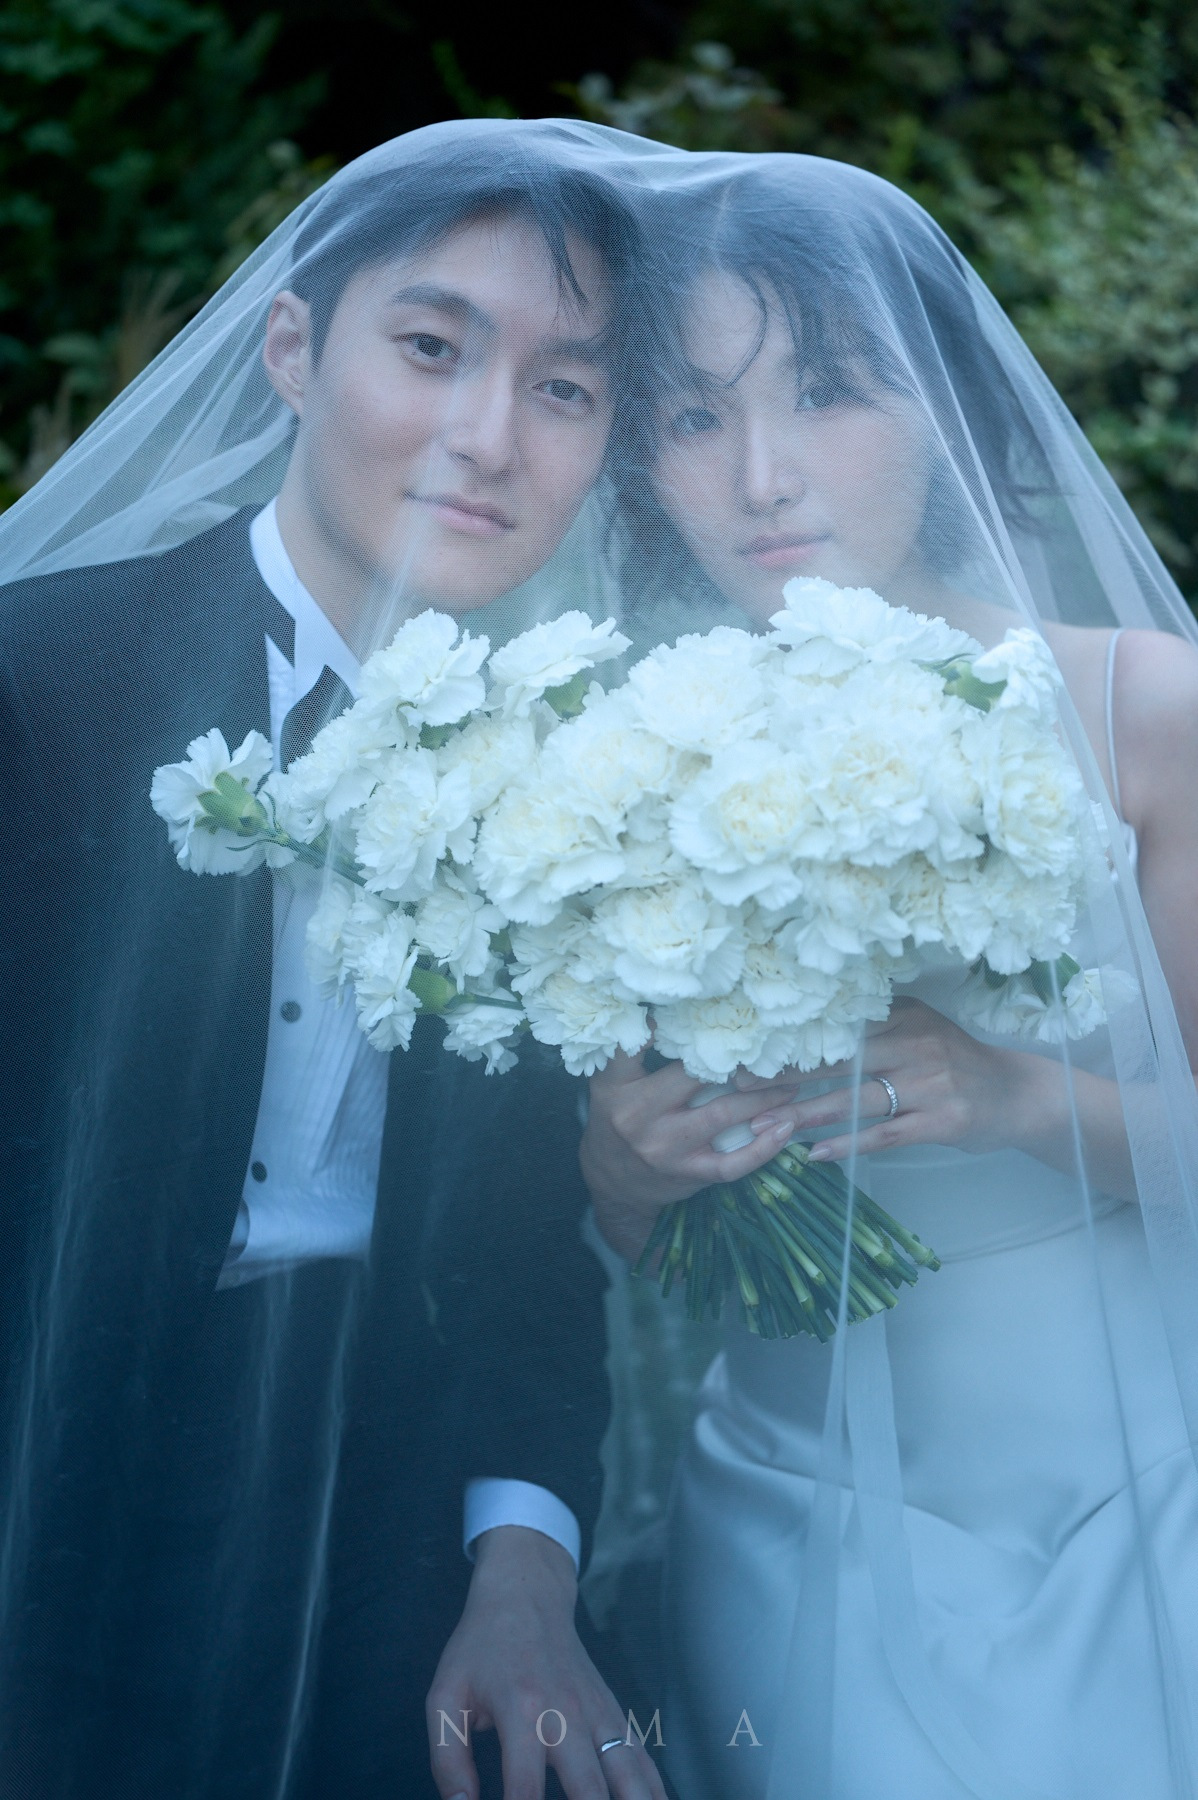
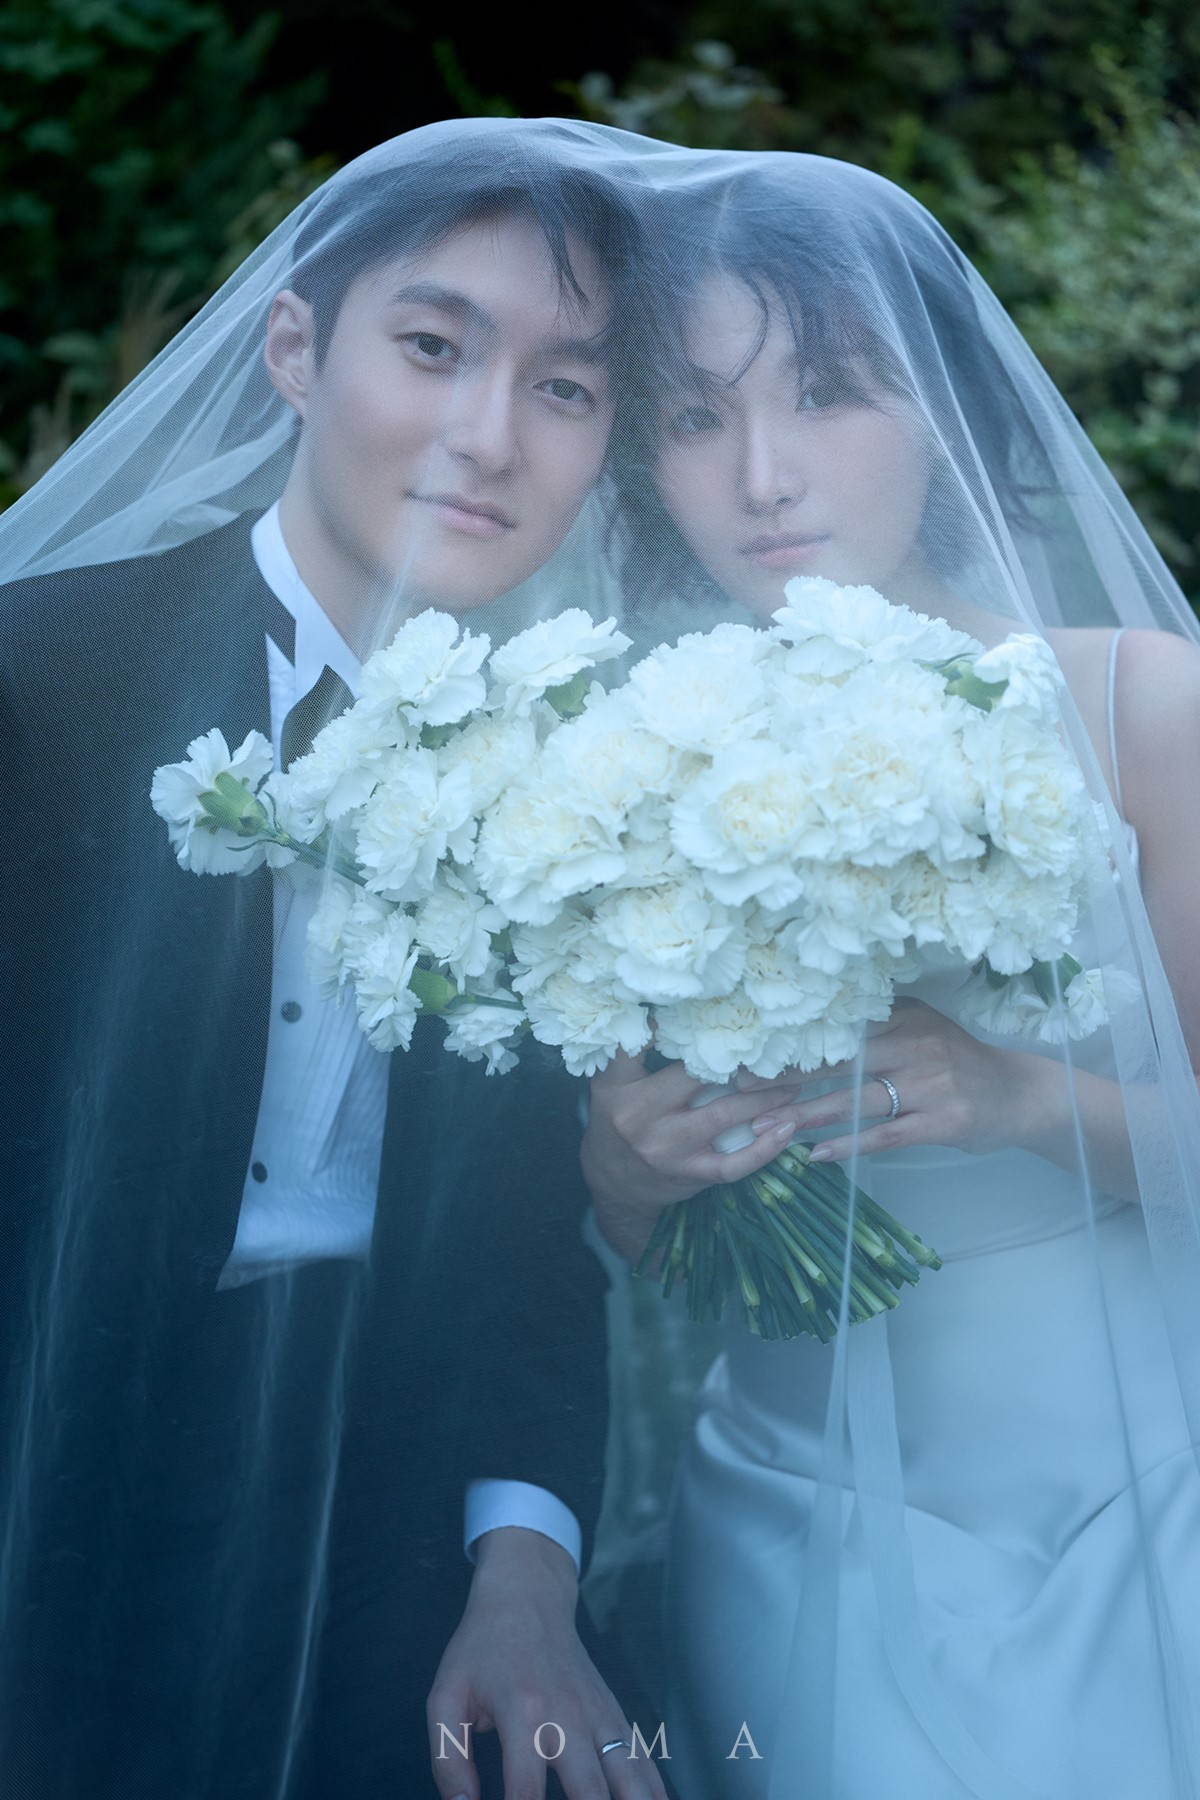
Replace photos 9, 20, 21 and bump cache versions
- New originals and square crops for g9, g20, g21
- Gallery ?v=3 -> ?v=4 and CSS/JS version bump so phones fetch the new photos

diff --git a/config.js b/config.js
@@ -95,36 +95,36 @@ var CONFIG = {
      사진을 빼려면 그 줄을 지우고, 더하려면 두 폴더에 넣은 뒤 같은 형식으로 한 줄 추가하세요.
      사진을 바꿨는데 휴대폰에 예전 사진이 보이면 ?v= 뒤 숫자를 올려 주세요. */
   gallery: [
-    { thumb: 'gallery/sq/g1.jpg?v=3', full: 'gallery/g1.jpg?v=3' },
-    { thumb: 'gallery/sq/g2.jpg?v=3', full: 'gallery/g2.jpg?v=3' },
-    { thumb: 'gallery/sq/g3.jpg?v=3', full: 'gallery/g3.jpg?v=3' },
-    { thumb: 'gallery/sq/g4.jpg?v=3', full: 'gallery/g4.jpg?v=3' },
-    { thumb: 'gallery/sq/g5.jpg?v=3', full: 'gallery/g5.jpg?v=3' },
-    { thumb: 'gallery/sq/g6.jpg?v=3', full: 'gallery/g6.jpg?v=3' },
-    { thumb: 'gallery/sq/g7.jpg?v=3', full: 'gallery/g7.jpg?v=3' },
-    { thumb: 'gallery/sq/g8.jpg?v=3', full: 'gallery/g8.jpg?v=3' },
-    { thumb: 'gallery/sq/g9.jpg?v=3', full: 'gallery/g9.jpg?v=3' },
-    { thumb: 'gallery/sq/g10.jpg?v=3', full: 'gallery/g10.jpg?v=3' },
-    { thumb: 'gallery/sq/g11.jpg?v=3', full: 'gallery/g11.jpg?v=3' },
-    { thumb: 'gallery/sq/g12.jpg?v=3', full: 'gallery/g12.jpg?v=3' },
-    { thumb: 'gallery/sq/g13.jpg?v=3', full: 'gallery/g13.jpg?v=3' },
-    { thumb: 'gallery/sq/g14.jpg?v=3', full: 'gallery/g14.jpg?v=3' },
-    { thumb: 'gallery/sq/g15.jpg?v=3', full: 'gallery/g15.jpg?v=3' },
-    { thumb: 'gallery/sq/g16.jpg?v=3', full: 'gallery/g16.jpg?v=3' },
-    { thumb: 'gallery/sq/g17.jpg?v=3', full: 'gallery/g17.jpg?v=3' },
-    { thumb: 'gallery/sq/g18.jpg?v=3', full: 'gallery/g18.jpg?v=3' },
-    { thumb: 'gallery/sq/g19.jpg?v=3', full: 'gallery/g19.jpg?v=3' },
-    { thumb: 'gallery/sq/g20.jpg?v=3', full: 'gallery/g20.jpg?v=3' },
-    { thumb: 'gallery/sq/g21.jpg?v=3', full: 'gallery/g21.jpg?v=3' },
-    { thumb: 'gallery/sq/g22.jpg?v=3', full: 'gallery/g22.jpg?v=3' },
-    { thumb: 'gallery/sq/g23.jpg?v=3', full: 'gallery/g23.jpg?v=3' },
-    { thumb: 'gallery/sq/g24.jpg?v=3', full: 'gallery/g24.jpg?v=3' },
-    { thumb: 'gallery/sq/g25.jpg?v=3', full: 'gallery/g25.jpg?v=3' },
-    { thumb: 'gallery/sq/g26.jpg?v=3', full: 'gallery/g26.jpg?v=3' },
-    { thumb: 'gallery/sq/g27.jpg?v=3', full: 'gallery/g27.jpg?v=3' },
-    { thumb: 'gallery/sq/g28.jpg?v=3', full: 'gallery/g28.jpg?v=3' },
-    { thumb: 'gallery/sq/g29.jpg?v=3', full: 'gallery/g29.jpg?v=3' },
-    { thumb: 'gallery/sq/g30.jpg?v=3', full: 'gallery/g30.jpg?v=3' }
+    { thumb: 'gallery/sq/g1.jpg?v=4', full: 'gallery/g1.jpg?v=4' },
+    { thumb: 'gallery/sq/g2.jpg?v=4', full: 'gallery/g2.jpg?v=4' },
+    { thumb: 'gallery/sq/g3.jpg?v=4', full: 'gallery/g3.jpg?v=4' },
+    { thumb: 'gallery/sq/g4.jpg?v=4', full: 'gallery/g4.jpg?v=4' },
+    { thumb: 'gallery/sq/g5.jpg?v=4', full: 'gallery/g5.jpg?v=4' },
+    { thumb: 'gallery/sq/g6.jpg?v=4', full: 'gallery/g6.jpg?v=4' },
+    { thumb: 'gallery/sq/g7.jpg?v=4', full: 'gallery/g7.jpg?v=4' },
+    { thumb: 'gallery/sq/g8.jpg?v=4', full: 'gallery/g8.jpg?v=4' },
+    { thumb: 'gallery/sq/g9.jpg?v=4', full: 'gallery/g9.jpg?v=4' },
+    { thumb: 'gallery/sq/g10.jpg?v=4', full: 'gallery/g10.jpg?v=4' },
+    { thumb: 'gallery/sq/g11.jpg?v=4', full: 'gallery/g11.jpg?v=4' },
+    { thumb: 'gallery/sq/g12.jpg?v=4', full: 'gallery/g12.jpg?v=4' },
+    { thumb: 'gallery/sq/g13.jpg?v=4', full: 'gallery/g13.jpg?v=4' },
+    { thumb: 'gallery/sq/g14.jpg?v=4', full: 'gallery/g14.jpg?v=4' },
+    { thumb: 'gallery/sq/g15.jpg?v=4', full: 'gallery/g15.jpg?v=4' },
+    { thumb: 'gallery/sq/g16.jpg?v=4', full: 'gallery/g16.jpg?v=4' },
+    { thumb: 'gallery/sq/g17.jpg?v=4', full: 'gallery/g17.jpg?v=4' },
+    { thumb: 'gallery/sq/g18.jpg?v=4', full: 'gallery/g18.jpg?v=4' },
+    { thumb: 'gallery/sq/g19.jpg?v=4', full: 'gallery/g19.jpg?v=4' },
+    { thumb: 'gallery/sq/g20.jpg?v=4', full: 'gallery/g20.jpg?v=4' },
+    { thumb: 'gallery/sq/g21.jpg?v=4', full: 'gallery/g21.jpg?v=4' },
+    { thumb: 'gallery/sq/g22.jpg?v=4', full: 'gallery/g22.jpg?v=4' },
+    { thumb: 'gallery/sq/g23.jpg?v=4', full: 'gallery/g23.jpg?v=4' },
+    { thumb: 'gallery/sq/g24.jpg?v=4', full: 'gallery/g24.jpg?v=4' },
+    { thumb: 'gallery/sq/g25.jpg?v=4', full: 'gallery/g25.jpg?v=4' },
+    { thumb: 'gallery/sq/g26.jpg?v=4', full: 'gallery/g26.jpg?v=4' },
+    { thumb: 'gallery/sq/g27.jpg?v=4', full: 'gallery/g27.jpg?v=4' },
+    { thumb: 'gallery/sq/g28.jpg?v=4', full: 'gallery/g28.jpg?v=4' },
+    { thumb: 'gallery/sq/g29.jpg?v=4', full: 'gallery/g29.jpg?v=4' },
+    { thumb: 'gallery/sq/g30.jpg?v=4', full: 'gallery/g30.jpg?v=4' }
   ],
 
   /* ── 초대 문구 (invite 그림 위에 얹히는 세 줄) ───────────

diff --git a/index.html b/index.html
@@ -25,7 +25,7 @@
 <link href="https://fonts.googleapis.com/css2?family=Geologica:opsz,slnt,wght,CRSV,SHRP@6..96,-11..0,100..900,0..1,0..100&display=swap" rel="stylesheet">
 <link href="https://fonts.googleapis.com/css2?family=IBM+Plex+Mono:ital,wght@0,300;0,400;0,500;0,600;0,700;1,400&display=swap" rel="stylesheet">
 <link rel="stylesheet" as="style" crossorigin href="https://cdn.jsdelivr.net/gh/orioncactus/pretendard@v1.3.9/dist/web/static/pretendard.min.css">
-<link rel="stylesheet" href="style.css?v=20261116f">
+<link rel="stylesheet" href="style.css?v=20261124a">
 
 <!-- 카카오톡 공유 SDK (config.js 의 kakaoJsKey 로 초기화됩니다) -->
 <script src="https://developers.kakao.com/sdk/js/kakao.min.js"></script>
@@ -164,7 +164,7 @@
 </div>
 <div class="toast" id="toast">복사되었습니다</div>
 
-<script src="config.js?v=20261116f"></script>
-<script src="main.js?v=20261116f"></script>
+<script src="config.js?v=20261124a"></script>
+<script src="main.js?v=20261124a"></script>
 </body>
 </html>
